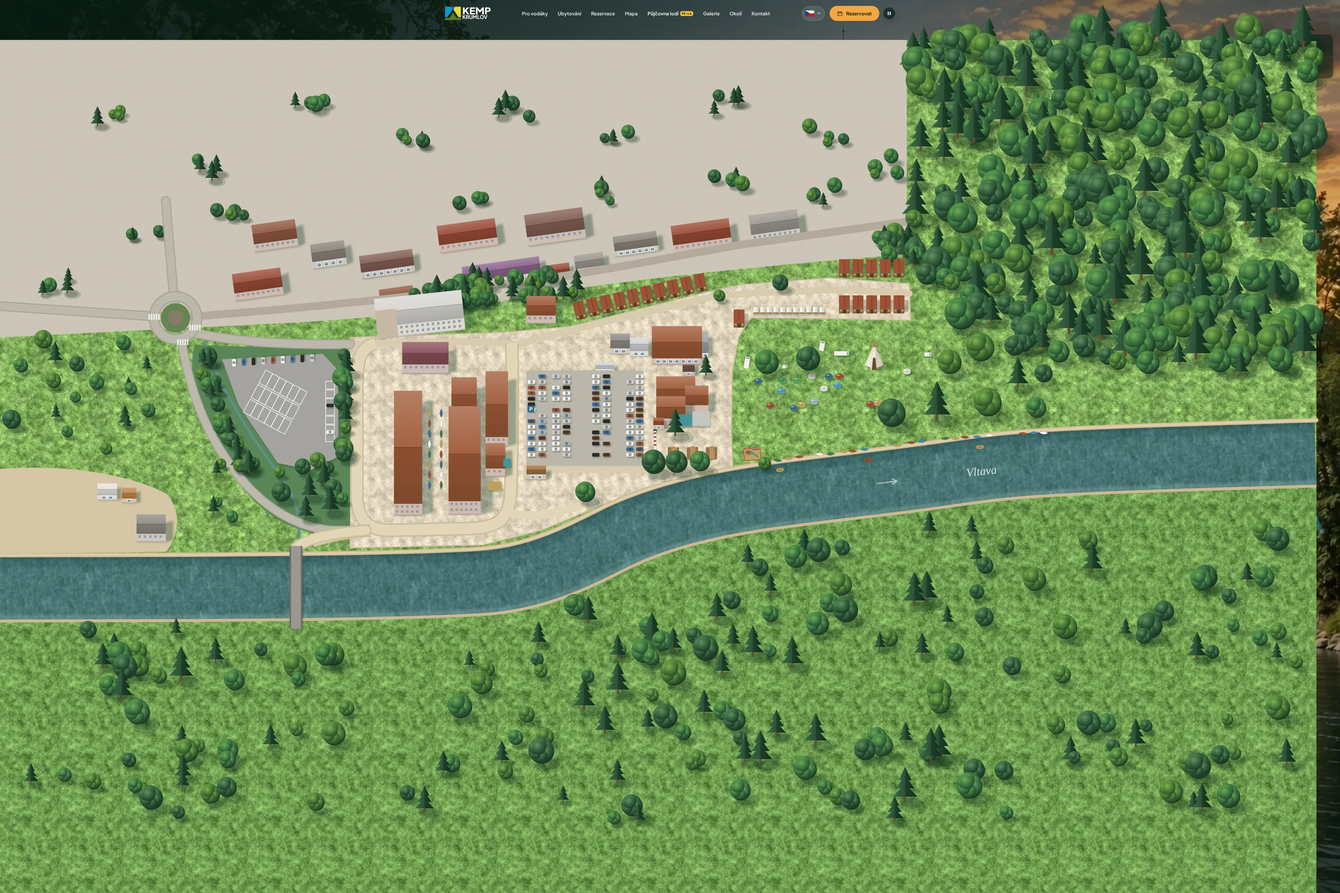
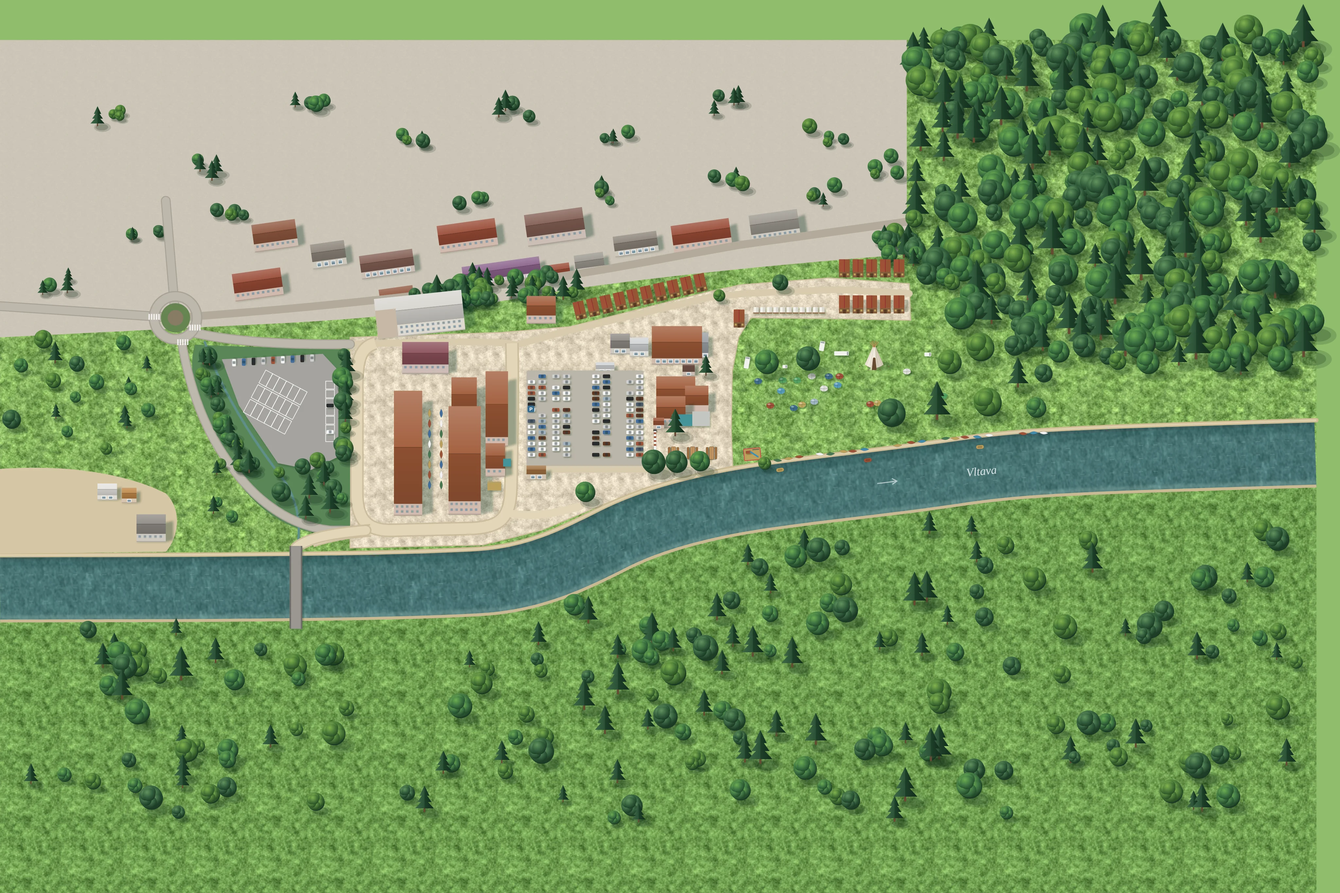
Mapa kempu: zkušební plné 3D (?mapa3d=3) – budovy, chatky, stany, teepee, auta a stromy jako 3D tělesa se stíny
- kamera přepočítaná z CSS náklonu SVG, tělesa sedí pod SVG značkami; pohled, posun, zoom a hranice jako dnes, bez natáčení
- terén jako samostatná textura bez objektů (nastroje/mapa3d-export.py generuje i teren-*)
- na malých displejích bez stínů

Claude-Session: https://claude.ai/code/session_01SriYs8xJVRZFuGyg5TyTst

Changed region(s): [[0.0, 0.0, 1.0, 1.0]]

diff --git a/js/mapy.js b/js/mapy.js
@@ -201,8 +201,9 @@ const RC=(()=>{const hx=c=>{c=String(c).trim();if(c[0]==='#'){if(c.length===4)c=
   else if(h>=75&&h<170){s*=.82;l*=.9}else s*=.85;
   return C[c]=rgb(h,s,l)}})();
 /* podklad přes WebGL (js/mapa3d.js) – výchozí; vypne ?mapa3d=0 (zapne zpět ?mapa3d=1); bez WebGL zůstane čisté SVG */
-const M3=(()=>{try{const q=new URLSearchParams(location.search).get('mapa3d');if(q==='0')localStorage.setItem('kk.mapa.3d','0');if(q==='1')localStorage.removeItem('kk.mapa.3d');
+const M3=(()=>{try{const q=new URLSearchParams(location.search).get('mapa3d');if(q==='0'||q==='3')localStorage.setItem('kk.mapa.3d',q);if(q==='1')localStorage.removeItem('kk.mapa.3d');
   if(localStorage.getItem('kk.mapa.3d')==='0')return false;const c=document.createElement('canvas'),g=c.getContext('webgl2')||c.getContext('webgl');if(!g)return false;const x=g.getExtension('WEBGL_lose_context');if(x)x.loseContext();return true}catch(e){return false}})();
+const M3D=(()=>{try{return localStorage.getItem('kk.mapa.3d')==='3'}catch(e){return false}})();/* plné 3D: budovy, chatky a stromy jako tělesa */
 const E=(t,a={},p=svg,html)=>{const e=document.createElementNS(NS,t);for(const k in a)e.setAttribute(k,REAL&&(k==='fill'||k==='stop-color')?RC(a[k]):a[k]);if(html){e.innerHTML=html;if(REAL)e.querySelectorAll('[fill],[stop-color]').forEach(x=>['fill','stop-color'].forEach(k=>{const v=x.getAttribute(k);if(v)x.setAttribute(k,RC(v))}))}p.append(e);return e};
 const G=(p,a={})=>E('g',a,p);
 let seed=5;const R=()=>{seed=(seed*16807)%2147483647;return(seed-1)/2147483646};
@@ -288,16 +289,16 @@ const S2=G(world,{transform:'scale(2)'});
 const bgp=G(S2,{class:'am-bg'});
 const DLS=[];const dl=(x,y,txt,size=15,rot=0,col='#2c3a30')=>{const t=E('text',{class:'am-dl','data-s':size*2,x,y,'text-anchor':'middle','font-family':FONT,'font-weight':800,'font-size':size*2,fill:col,transform:rot?`rotate(${rot} ${x} ${y})`:'','paint-order':'stroke',stroke:'rgba(255,255,255,.88)','stroke-width':4},world);t.textContent=txt;DLS.push(t);return t};
 const shade=(hex,f)=>{const n=parseInt(hex.slice(1),16);let r=n>>16,g=n>>8&255,b=n&255;r=Math.round(r*f);g=Math.round(g*f);b=Math.round(b*f);return `rgb(${Math.min(255,r)},${Math.min(255,g)},${Math.min(255,b)})`};
-const TREES=[];
-const tree=(p,x,y,r)=>{const g=G(p,{class:'t3'});g.dataset.y=y;TREES.push(g);
+const TREES=[];const O3=[];/* O3: objekty pro 3D režim (budovy, chatky, stany, auta, stromy) */
+const tree=(p,x,y,r)=>{const g=G(p,{class:'t3 o3'});g.dataset.y=y;TREES.push(g);
   E('ellipse',{cx:x+r*.7,cy:y+r*.2,rx:r*1.2,ry:r*.65,fill:'rgba(15,40,22,.16)'},g);E('ellipse',{cx:x+r*.62,cy:y+r*.18,rx:r*.9,ry:r*.45,fill:'rgba(15,40,22,.22)'},g);
-  if(R()<.32){/* jehličnan */const h=r*2.6,c='url(#cnA)';
+  if(R()<.32){/* jehličnan */const h=r*2.6,c='url(#cnA)';O3.push({t:'con',g,x,y,r});
     E('rect',{x:x-r*.09,y:y-r*.5,width:r*.18,height:r*.55,fill:'#6b4a2e'},g);
     for(let k=0;k<3;k++){const yy=y-r*.35-k*h*.26,ww=r*(1-k*.24);
       E('path',{d:`M${x-ww} ${yy} L${x} ${yy-h*.42} L${x+ww} ${yy}Z`,fill:c},g);
       E('path',{d:`M${x} ${yy-h*.42} L${x+ww} ${yy} L${x} ${yy}Z`,fill:'rgba(0,20,10,.28)'},g)}
     return g}
-  const pal=['url(#trA)','url(#trB)','url(#trC)'][Math.floor(R()*3)];
+  const pal=['url(#trA)','url(#trB)','url(#trC)'][Math.floor(R()*3)];O3.push({t:'dec',g,x,y,r,c:pal.slice(6,9)});
   const cy=y-r*.95;
   E('rect',{x:x-r*.1,y:cy,width:r*.2,height:r*.95,fill:'#6b4a2e'},g);
   E('circle',{cx:x+r*.08,cy:cy+r*.12,r:r*.98,fill:'#1d4428'},g);
@@ -305,7 +306,7 @@ const tree=(p,x,y,r)=>{const g=G(p,{class:'t3'});g.dataset.y=y;TREES.push(g);
   for(let i=0;i<6;i++){const a=i/6*Math.PI*2-.6,rr=r*(.42+R()*.14);E('circle',{cx:x+Math.cos(a)*r*.5,cy:cy+Math.sin(a)*r*.44,r:rr,fill:pal},g)}
   E('circle',{cx:x-r*.15,cy:cy-r*.2,r:r*.55,fill:pal},g);return g};
 const roofB=(p,x,y,w,h,col='#c23b4a',rot=0,H,noWin)=>{H=H??Math.max(9,Math.min(34,Math.min(w,h)*.42));
-  const g=G(p,{transform:`rotate(${rot} ${x+w/2} ${y+h/2})`});
+  const g=G(p,{transform:`rotate(${rot} ${x+w/2} ${y+h/2})`,class:'o3'});O3.push({t:'b',g,x,y,w,h,H,col});
   E('path',{d:`M${x} ${y+h} L${x+w} ${y+h} L${x+w+H*.9} ${y+h-H*.25} L${x+w+H*.9} ${y-H*.2} L${x+w} ${y}Z`,fill:'rgba(15,40,22,.32)',filter:'url(#amSoft)'},g);
   const wy=y+h-H;
   E('rect',{x,y:wy,width:w,height:H,fill:'#e9e3d6'},g);E('rect',{x,y:wy,width:w,height:H,fill:shade(col,.9),opacity:.25},g);
@@ -315,16 +316,16 @@ const roofB=(p,x,y,w,h,col='#c23b4a',rot=0,H,noWin)=>{H=H??Math.max(9,Math.min(3
   else for(let f=0;f<nF;f++)for(let i=0;i<nW;i++)E('rect',{x:x+4+i*(w-6)/nW,y:wy+3+f*(H-4)/nF,width:Math.min(5,(w-6)/nW-2),height:Math.min(5,(H-4)/nF-3),fill:'#7d97a6',opacity:.85},g);
   E('rect',{x,y:y-H,width:w,height:h,fill:col},g);E('rect',{x,y:y-H,width:w,height:h,fill:'url(#roofG)'},g);
   E('line',{x1:x,y1:y-H+h/2,x2:x+w,y2:y-H+h/2,stroke:'rgba(0,0,0,.25)','stroke-width':1},g);return g};
-const cabin=(p,x,y,rot=0)=>{const g=G(p,{transform:`translate(${x} ${y}) rotate(${rot})`});
+const cabin=(p,x,y,rot=0)=>{const g=G(p,{transform:`translate(${x} ${y}) rotate(${rot})`,class:'o3'});O3.push({t:'cab',g});
   E('path',{d:'M-11 13 L11 13 L19 11 L19 -13 L11 -13Z',fill:'rgba(20,45,30,.22)'},g);
   E('rect',{x:-11,y:4,width:22,height:11,fill:'#8a5a36'},g);E('rect',{x:-3,y:7,width:6,height:8,fill:'#5a3a22'},g);E('rect',{x:-9,y:7,width:4,height:4,fill:'#f3d58a'},g);E('rect',{x:5,y:7,width:4,height:4,fill:'#f3d58a'},g);
   E('g',{transform:'translate(0 -9)'},g);const gg=g.lastChild;
   E('rect',{x:-11,y:-13,width:22,height:26,rx:1,fill:'#b9343f'},gg);E('rect',{x:-11,y:-13,width:11,height:26,fill:'#d24753'},gg);
   E('line',{x1:0,y1:-13,x2:0,y2:13,stroke:'#8e2630','stroke-width':1},gg)};
-const ptent=(p,x,y)=>{const g=G(p,{transform:`translate(${x} ${y})`,filter:'url(#amSh)'});E('rect',{x:-5,y:-6,width:10,height:12,rx:1,fill:'#f4f2ea'},g);E('rect',{x:0,y:-6,width:5,height:12,fill:'#dcd9cd'},g);E('rect',{x:-6,y:5,width:12,height:2.5,fill:'#9a714a'},g)};
-const dome=(p,x,y,c,s=1)=>{const g=G(p,{transform:`translate(${x} ${y}) scale(${s})`});E('ellipse',{cx:1.5,cy:2,rx:7,ry:5.5,fill:'rgba(23,58,34,.3)'},g);E('ellipse',{rx:6.5,ry:5,fill:c},g);E('path',{d:'M-6.5 0 H6.5 M0 -5 V5',stroke:'rgba(0,0,0,.2)','stroke-width':.8},g);E('ellipse',{cx:-2,cy:-2,rx:2.5,ry:1.6,fill:'rgba(255,255,255,.35)'},g)};
-const car=(p,x,y,c,rot=0)=>{const g=G(p,{transform:`translate(${x} ${y}) rotate(${rot})`});E('rect',{x:-7.5,y:-3.8,width:15,height:7.6,rx:2.2,fill:c,filter:'url(#amSh)'},g);E('rect',{x:-2.5,y:-3,width:5.5,height:6,rx:1,fill:'rgba(30,50,60,.45)'},g)};
-const van=(p,x,y,rot=0,w=16,h=7)=>{const g=G(p,{transform:`translate(${x} ${y}) rotate(${rot})`,filter:'url(#amSh)'});E('rect',{x:-w/2,y:-h/2,width:w,height:h,rx:1.5,fill:'#f3f3ef'},g);E('rect',{x:w/2-4,y:-h/2+1,width:3,height:h-2,fill:'rgba(30,50,60,.4)'},g)};
+const ptent=(p,x,y)=>{const g=G(p,{transform:`translate(${x} ${y})`,filter:'url(#amSh)',class:'o3'});O3.push({t:'pt',g});E('rect',{x:-5,y:-6,width:10,height:12,rx:1,fill:'#f4f2ea'},g);E('rect',{x:0,y:-6,width:5,height:12,fill:'#dcd9cd'},g);E('rect',{x:-6,y:5,width:12,height:2.5,fill:'#9a714a'},g)};
+const dome=(p,x,y,c,s=1)=>{const g=G(p,{transform:`translate(${x} ${y}) scale(${s})`,class:'o3'});O3.push({t:'dm',g,c});E('ellipse',{cx:1.5,cy:2,rx:7,ry:5.5,fill:'rgba(23,58,34,.3)'},g);E('ellipse',{rx:6.5,ry:5,fill:c},g);E('path',{d:'M-6.5 0 H6.5 M0 -5 V5',stroke:'rgba(0,0,0,.2)','stroke-width':.8},g);E('ellipse',{cx:-2,cy:-2,rx:2.5,ry:1.6,fill:'rgba(255,255,255,.35)'},g)};
+const car=(p,x,y,c,rot=0)=>{const g=G(p,{transform:`translate(${x} ${y}) rotate(${rot})`,class:'o3'});O3.push({t:'car',g,c});E('rect',{x:-7.5,y:-3.8,width:15,height:7.6,rx:2.2,fill:c,filter:'url(#amSh)'},g);E('rect',{x:-2.5,y:-3,width:5.5,height:6,rx:1,fill:'rgba(30,50,60,.45)'},g)};
+const van=(p,x,y,rot=0,w=16,h=7)=>{const g=G(p,{transform:`translate(${x} ${y}) rotate(${rot})`,filter:'url(#amSh)',class:'o3'});O3.push({t:'van',g,w,h});E('rect',{x:-w/2,y:-h/2,width:w,height:h,rx:1.5,fill:'#f3f3ef'},g);E('rect',{x:w/2-4,y:-h/2+1,width:3,height:h-2,fill:'rgba(30,50,60,.4)'},g)};
 const boat=(p,x,y,rot,c,len=9)=>{const g=G(p,{transform:`translate(${x} ${y}) rotate(${rot})`});E('path',{d:`M${-len} 0 Q${-len*.4} -3 0 -3 Q${len*.4} -3 ${len} 0 Q${len*.4} 3 0 3 Q${-len*.4} 3 ${-len} 0Z`,fill:c,stroke:'rgba(0,0,0,.25)','stroke-width':.5},g)};
 const raft=(p,x,y,c,rot=0)=>{const g=G(p,{transform:`translate(${x} ${y}) rotate(${rot})`});E('rect',{x:-8,y:-4,width:16,height:8,rx:4,fill:c,stroke:'rgba(0,0,0,.25)','stroke-width':.5},g);E('rect',{x:-5,y:-2,width:10,height:4,rx:2,fill:'rgba(0,0,0,.18)'},g)};
 const cnum=(p,x,y,n,r,fs,bg,fg)=>{const g=G(p,{class:'am-cnum'});E('circle',{cx:x,cy:y,r,fill:bg,stroke:'#fff','stroke-width':1.2,filter:'url(#amSh)'},g);const t=E('text',{x,y,'dominant-baseline':'central','text-anchor':'middle','font-family':FONT,'font-weight':800,'font-size':fs,fill:fg},g);t.textContent=n};
@@ -477,7 +478,7 @@ const DOCKS=[760,905,1010,1160];
  for(let i=0;i<11;i++)ptent(g,651+i*13.5,104);for(let i=0;i<11;i++)cnum(g,651+i*13.5,89,i+1,6,7,'#2a7c86','#fff')}
 // teepee (podle skutečnosti: bílé plátno, dřevěné tyče nahoře, vchod)
 {const g=zone(Z.teepee);hl(g,'circle',{cx:893,cy:208,r:30});
- const cx=893,by=216,rx=19,ry=7,ay=178;
+ const cx=893,by=216,rx=19,ry=7,ay=178;O3.push({t:'tp',g,cx,by,rx,ay});
  // stín na trávě
  E('ellipse',{cx:cx+14,cy:by+3,rx:rx+10,ry:ry+1,fill:'rgba(23,58,34,.32)',filter:'url(#amSoft)'},g);
  // kolíky a lana
@@ -721,7 +722,7 @@ if(REAL){sec.classList.add('collapsed');opn.hidden=false;tog.setAttribute('aria-
    d.setAttribute('cx',X.toFixed(2));d.setAttribute('cy',Y.toFixed(2))})}
  })(performance.now())}
 /* zapečení statického pozadí mapy do jednoho vektorového obrázku – plynulejší animace */
-{const bake=async()=>{try{if(sec.classList.contains('am-3d'))return;const bg=svg.querySelector('.am-bg');if(!bg||bg.dataset.baked)return;const bb=bg.getBBox(),df=svg.querySelector('defs').cloneNode(true);
+{const bake=async()=>{try{if(sec.classList.contains('am-3d')||window.KK_NEBAKE)return;const bg=svg.querySelector('.am-bg');if(!bg||bg.dataset.baked)return;const bb=bg.getBBox(),df=svg.querySelector('defs').cloneNode(true);
  const toData=async u=>{const b=await (await fetch(u)).blob();return await new Promise(r=>{const f=new FileReader();f.onload=()=>r(f.result);f.readAsDataURL(b)})};
  for(const im of df.querySelectorAll('image')){const h=im.getAttribute('href');if(h&&!h.startsWith('data:'))im.setAttribute('href',await toData(h))}
  const X=new XMLSerializer(),str=`<svg xmlns="${NS}" viewBox="${bb.x} ${bb.y} ${bb.width} ${bb.height}" width="${bb.width}" height="${bb.height}">${X.serializeToString(df)}${[...bg.childNodes].map(n=>X.serializeToString(n)).join('')}</svg>`;
@@ -759,12 +760,27 @@ if(REAL){sec.classList.add('am-real');
  try{if(sessionStorage.getItem('kk.mapa.skok')){sessionStorage.removeItem('kk.mapa.skok');setTimeout(()=>sec.scrollIntoView({block:'start'}),60)}}catch(_){}}
 apply(cover());
 window.__am={Z:Z,icon:icon,select:select};
-if(M3){sec.classList.add('am-3d');
+/* objekty pro plné 3D v souřadnicích mapy */
+function obj3d(){const w=world.getCTM(),wi=new DOMMatrix([w.a,w.b,w.c,w.d,w.e,w.f]).inverse();
+ const M=g=>{const c=g.getCTM();return wi.multiply(new DOMMatrix([c.a,c.b,c.c,c.d,c.e,c.f]))},P=(m,x,y)=>{const q=m.transformPoint({x,y});return [+q.x.toFixed(1),+q.y.toFixed(1)]},K=m=>Math.hypot(m.a,m.b);
+ return O3.map(o=>{const m=M(o.g),k=K(m);
+  switch(o.t){
+   case 'b':return{t:'b',p:[P(m,o.x,o.y),P(m,o.x+o.w,o.y),P(m,o.x+o.w,o.y+o.h),P(m,o.x,o.y+o.h)],h:o.H*k,c:o.col};
+   case 'cab':return{t:'cab',p:[P(m,-11,-12),P(m,11,-12),P(m,11,14),P(m,-11,14)],h:10*k};
+   case 'pt':return{t:'pt',p:[P(m,-5,-6),P(m,5,-6),P(m,5,6),P(m,-5,6)],h:7*k};
+   case 'dm':return{t:'dm',p:[P(m,0,0)],r:6.5*k,c:o.c};
+   case 'car':return{t:'car',p:[P(m,-7.5,-3.8),P(m,7.5,-3.8),P(m,7.5,3.8),P(m,-7.5,3.8)],h:4*k,c:o.c};
+   case 'van':return{t:'van',p:[P(m,-o.w/2,-o.h/2),P(m,o.w/2,-o.h/2),P(m,o.w/2,o.h/2),P(m,-o.w/2,o.h/2)],h:7*k};
+   case 'tp':return{t:'tp',p:[P(m,o.cx,o.by-4)],r:o.rx*k*.85,h:(o.by-o.ay)*k*1.2};
+   case 'con':return{t:'con',p:[P(m,o.x,o.y)],r:o.r*k};
+   case 'dec':return{t:'dec',p:[P(m,o.x,o.y)],r:o.r*k,c:o.c};
+  }}).filter(Boolean)}
+if(M3){const OB=M3D?obj3d():null;sec.classList.add('am-3d');
  /* statický obsah (terén, budovy, stromy, čísla míst) se schová – kreslí ho WebGL; zvýraznění zón (.hl) zůstává pro klikání */
  const hv=e=>{e.classList.add('am-hv')},skryj=el=>{[...el.children].forEach(c=>{if(c.classList.contains('hl')||c.classList.contains('am-cnum'))return;if(c.querySelector('.hl,.am-cnum'))skryj(c);else hv(c)})};
  const bg=svg.querySelector('.am-bg');if(bg)hv(bg);svg.querySelectorAll('.am-zone').forEach(skryj);svg.querySelectorAll('[data-y]').forEach(t=>{if(!t.closest('.am-mk,.am-fleet'))hv(t)});
  const base=new URL('.',document.baseURI).href;
- import(base+'js/mapa3d.js?v=8').then(m=>m.start({stage,svg,base,styl:REAL?'real':'kresl'})).then(a=>{window.__am3d=a;a.view(vb);if(cur)a.focus(cur.k)})
+ import(base+'js/mapa3d.js?v=11').then(m=>m.start({stage,svg,base,styl:REAL?'real':'kresl',obj:OB,rc:REAL?RC:null})).then(a=>{window.__am3d=a;a.view(vb);if(cur)a.focus(cur.k)})
   .catch(e=>{console.warn('Mapa: WebGL podklad nejde, zůstává SVG',e);window.__am3d=null;sec.classList.remove('am-3d');if(window.__amBake)window.__amBake()})}
 let rt;addEventListener('resize',()=>{clearTimeout(rt);rt=setTimeout(()=>{legH();if(cur)select(cur);else apply(cover())},120)});
 })();

diff --git a/js/mapa3d.js b/js/mapa3d.js
@@ -1,36 +1,96 @@
-/* Podklad mapy kempu kreslený přes WebGL (three.js).
+/* Mapa kempu kreslená přes WebGL (three.js).
    Pohled, posun, přiblížení, náklon i hranice dál řídí SVG mapa v mapy.js (stejný viewBox a stejná CSS transformace),
-   takže mapa vypadá a chová se úplně stejně. Jen těžký statický obsah (terén, budovy, stromy) místo tisíců
-   SVG prvků se stíny vykresluje grafická karta z jedné textury. Špendlíky, zvýraznění zón a lodě zůstávají v SVG.
+   takže mapa vypadá a chová se stejně. Špendlíky, čísla míst, zvýraznění zón a lodě zůstávají v SVG.
+   Dva režimy:
+   – podklad: celá mapa jako jedna textura, plátno má stejnou CSS transformaci jako SVG,
+   – plné 3D (obj): terén jako textura + budovy, chatky, stany, auta a stromy jako 3D tělesa;
+     kamera se počítá přímo z CSS náklonu SVG (perspektiva + rotateX), takže tělesa sedí přesně pod SVG značkami.
    Textury img/mapa3d-*.webp a js/mapa3d-data.json vyrábí nastroje/mapa3d-export.py. */
 import * as THREE from './vendor/three.module.min.js';
 
-export async function start({stage,svg,base,styl}){
- const D=await (await fetch(base+'js/mapa3d-data.json')).json(),T=D.tex;
- const R=new THREE.WebGLRenderer({antialias:false,alpha:true,powerPreference:'low-power'});
+export async function start({stage,svg,base,styl,obj,rc}){
+ const D=await (await fetch(base+'js/mapa3d-data.json',{cache:'no-cache'})).json(),T=D.tex,VER=D.v||'';
+ const P3=!!(obj&&obj.length);
+ const R=new THREE.WebGLRenderer({antialias:P3,alpha:true,powerPreference:'low-power'});
  R.setPixelRatio(Math.min(devicePixelRatio,2));R.outputColorSpace=THREE.SRGBColorSpace;R.setClearColor(0x000000,0);
- const cv=R.domElement;cv.className='am-gl';cv.setAttribute('aria-hidden','true');svg.before(cv);
- const S=new THREE.Scene(),C=new THREE.OrthographicCamera(0,1,0,-1,-10,10);
+ const cv=R.domElement;cv.className='am-gl'+(P3?' am-gl3':'');cv.setAttribute('aria-hidden','true');svg.before(cv);
+ const S=new THREE.Scene();
  const mala=Math.min(innerWidth,innerHeight)<700||!(R.capabilities.maxTextureSize>=4096);
- const nacti=s=>new Promise((ok,no)=>new THREE.TextureLoader().load(`${base}img/mapa3d-${s}${mala?'-2048':''}.webp`,t=>{
+ const jm=s=>(P3?'teren-':'')+s;
+ const nacti=s=>new Promise((ok,no)=>new THREE.TextureLoader().load(`${base}img/mapa3d-${jm(s)}${mala?'-2048':''}.webp?v=${VER}`,t=>{
   t.colorSpace=THREE.SRGBColorSpace;t.anisotropy=Math.min(8,R.capabilities.getMaxAnisotropy());t.generateMipmaps=true;t.minFilter=THREE.LinearMipmapLinearFilter;ok(t)},undefined,no));
- /* rovina v souřadnicích mapy (osa y obrácená, jako v SVG) */
- /* vybrané místo zůstane barevné, zbytek se ztlumí – jako .focus u SVG zón */
+ /* terén; vybrané místo zůstane barevné, zbytek se ztlumí – jako .focus u SVG zón */
  const U={map:{value:await nacti(styl)},dim:{value:0},rc:{value:new THREE.Vector4(0,0,0,0)}};
- const mat=new THREE.ShaderMaterial({uniforms:U,
-  vertexShader:'varying vec2 vUv;varying vec2 vW;void main(){vUv=uv;vec4 w=modelMatrix*vec4(position,1.);vW=vec2(w.x,-w.y);gl_Position=projectionMatrix*viewMatrix*w;}',
+ const mat=new THREE.ShaderMaterial({uniforms:U,side:THREE.DoubleSide,
+  vertexShader:'varying vec2 vUv;varying vec2 vW;void main(){vUv=uv;vec4 w=modelMatrix*vec4(position,1.);vW=vec2(w.x,'+(P3?'w.y':'-w.y')+');gl_Position=projectionMatrix*viewMatrix*w;}',
   fragmentShader:'uniform sampler2D map;uniform float dim;uniform vec4 rc;varying vec2 vUv;varying vec2 vW;void main(){vec4 c=texture2D(map,vUv);'+
    'float l=dot(c.rgb,vec3(.299,.587,.114));vec3 d=mix(vec3(l),c.rgb,.45);d=mix(d,vec3(.85,.83,.78),.18);'+
    'float m=step(rc.x,vW.x)*step(vW.x,rc.z)*step(rc.y,vW.y)*step(vW.y,rc.w);gl_FragColor=vec4(mix(c.rgb,d,dim*(1.-m)),1.);'+
    '\n#include <colorspace_fragment>\n}'});
- const zem=new THREE.Mesh(new THREE.PlaneGeometry(T.w,T.h),mat);
- zem.position.set(T.x+T.w/2,-(T.y+T.h/2),0);S.add(zem);
+ const zem=new THREE.Mesh(new THREE.PlaneGeometry(T.w,T.h),mat);S.add(zem);
+ let C;
+ if(!P3){zem.position.set(T.x+T.w/2,-(T.y+T.h/2),0);C=new THREE.OrthographicCamera(0,1,0,-1,-10,10)}
+ else{
+  /* souřadnice scény = souřadnice mapy: x doprava, y dolů, z = výška nad terénem */
+  zem.position.set(T.x+T.w/2,T.y+T.h/2,0);zem.scale.y=-1;
+  C=new THREE.Camera();C.matrixAutoUpdate=false;
+  const HK=1.3;/* výšky jako v kreslené mapě (tam jsou „vytažené“ šikmo do plochy) */
+  const cl=c=>{c=rc&&c?rc(c):c;return new THREE.Color(c||'#cccccc')};
+  const pos=[],nor=[],col=[],tri=(a,b,c,k)=>{const n=new THREE.Vector3().subVectors(b,a).cross(new THREE.Vector3().subVectors(c,a)).normalize();
+   if(n.z<0||(Math.abs(n.z)<1e-6&&n.lengthSq()===0))n.negate();for(const v of [a,b,c]){pos.push(v.x,v.y,v.z);nor.push(n.x,n.y,n.z);col.push(k.r,k.g,k.b)}};
+  const V=(p,z)=>new THREE.Vector3(p[0],p[1],z),quad=(a,b,c,d,k)=>{tri(a,b,c,k);tri(a,c,d,k)};
+  const stred=q=>[(q[0][0]+q[1][0]+q[2][0]+q[3][0])/4,(q[0][1]+q[1][1]+q[2][1]+q[3][1])/4];
+  /* normála stěny ven od středu (scéna je zrcadlená, proto ruční orientace) */
+  const stena=(a,b,z0,z1,k,c)=>{const A=V(a,z0),B=V(b,z0),B1=V(b,z1),A1=V(a,z1);const n=new THREE.Vector3().subVectors(B,A).cross(new THREE.Vector3(0,0,1)).normalize();
+   const ven=new THREE.Vector3((a[0]+b[0])/2-c[0],(a[1]+b[1])/2-c[1],0);if(n.dot(ven)<0)n.negate();
+   for(const v of [A,B,B1,A,B1,A1]){pos.push(v.x,v.y,v.z);nor.push(n.x,n.y,n.z);col.push(k.r,k.g,k.b)}};
+  const kvadr=(q,z0,z1,kS,kT)=>{const c=stred(q);for(let i=0;i<4;i++)stena(q[i],q[(i+1)%4],z0,z1,kS,c);if(kT)quad(V(q[0],z1),V(q[1],z1),V(q[2],z1),V(q[3],z1),kT)};
+  /* sedlová střecha: hřeben podél hrany q0→q1 (nebo q1→q2) */
+  const sedlo=(q,z,rh,k,podel)=>{const [a,b,c,d]=podel?[q[1],q[2],q[3],q[0]]:q;const m1=[(a[0]+d[0])/2,(a[1]+d[1])/2],m2=[(b[0]+c[0])/2,(b[1]+c[1])/2];
+   const A=V(a,z),B=V(b,z),Cc=V(c,z),Dd=V(d,z),M1=V(m1,z+rh),M2=V(m2,z+rh);quad(A,B,M2,M1,k);quad(Dd,Cc,M2,M1,k);tri(A,Dd,M1,k);tri(B,Cc,M2,k)};
+  const geo=(g,x,y,z,k)=>{g=g.toNonIndexed();g.computeVertexNormals();const p=g.attributes.position,n=g.attributes.normal;
+   for(let i=0;i<p.count;i++){pos.push(p.getX(i)+x,p.getY(i)+y,p.getZ(i)+z);nor.push(n.getX(i),n.getY(i),n.getZ(i));col.push(k.r,k.g,k.b)}};
+  const SH=new THREE.SphereGeometry(1,14,7,0,Math.PI*2,0,Math.PI/2).rotateX(Math.PI/2),
+   KR=new THREE.IcosahedronGeometry(1,2),KM=new THREE.CylinderGeometry(.1,.14,1,6).rotateX(Math.PI/2),KU=r=>new THREE.ConeGeometry(1,1,10).rotateX(Math.PI/2);
+  const TREEC={trA:'#4a9a50',trB:'#5aa64f',trC:'#3a8a48'};
+  const zed=cl('#ece6d8'),kmen=cl('#6b4a2e');
+  for(const o of obj){const q=o.p;
+   switch(o.t){
+    case 'b':{const h=o.h*HK,e1=Math.hypot(q[1][0]-q[0][0],q[1][1]-q[0][1]),e2=Math.hypot(q[2][0]-q[1][0],q[2][1]-q[1][1]);
+     kvadr(q,0,h,zed,null);sedlo(q,h,Math.min(e1,e2)*.28,cl(o.c),e2>e1);break}
+    case 'cab':kvadr(q,0,o.h*HK*.75,cl('#8a5a36'),null);sedlo(q,o.h*HK*.75,o.h*HK*.6,cl('#c23b4a'),true);break;
+    case 'pt':kvadr(q,0,1.5,cl('#9a714a'),null);sedlo(q,1.5,o.h*HK,cl('#f1eee4'),true);break;
+    case 'car':kvadr(q,0,o.h*.55,cl(o.c),null);kvadr(q.map(p=>[p[0]*.8+stred(q)[0]*.2,p[1]*.8+stred(q)[1]*.2]),o.h*.55,o.h,cl(o.c).multiplyScalar(.82),cl(o.c).multiplyScalar(.9));break;
+    case 'van':kvadr(q,0,o.h,cl('#f3f3ef'),cl('#e6e6df'));break;
+    case 'dm':{const g=SH.clone().scale(o.r,o.r*.8,o.r*.75);geo(g,q[0][0],q[0][1],0,cl(o.c));break}
+    case 'tp':{const g=KU().scale(o.r,o.r,o.h).translate(0,0,o.h/2);geo(g,q[0][0],q[0][1],0,cl('#f3ecdb'));break}
+    case 'dec':{const r=o.r;geo(KM.clone().scale(r,r,r*.7),q[0][0],q[0][1],r*.35,kmen);geo(KR.clone().scale(r,r,r*.95),q[0][0],q[0][1],r*1.35,cl(TREEC[o.c]||'#3f8f49'));break}
+    case 'con':{const r=o.r,h=r*2.6*HK*.8;geo(KM.clone().scale(r,r,r*.5),q[0][0],q[0][1],r*.25,kmen);
+     for(let i=0;i<3;i++){const w=r*(1-i*.24),z=r*.35+i*h*.26;geo(KU().scale(w,w,h*.42).translate(0,0,h*.21),q[0][0],q[0][1],z,cl('#2c6b3f'))}break}
+   }}
+  const G=new THREE.BufferGeometry();G.setAttribute('position',new THREE.Float32BufferAttribute(pos,3));G.setAttribute('normal',new THREE.Float32BufferAttribute(nor,3));G.setAttribute('color',new THREE.Float32BufferAttribute(col,3));
+  const telesa=new THREE.Mesh(G,new THREE.MeshLambertMaterial({vertexColors:true,side:THREE.DoubleSide}));telesa.castShadow=true;S.add(telesa);
+  S.add(new THREE.HemisphereLight(0xffffff,0x9aa58a,1.6));
+  const L=new THREE.DirectionalLight(0xfff4e0,1.7),cx=T.x+T.w/2,cy=T.y+T.h/2;L.position.set(cx-1600,cy-1400,2600);L.target.position.set(cx,cy,0);S.add(L,L.target);
+  if(!mala){R.shadowMap.enabled=true;R.shadowMap.type=THREE.PCFSoftShadowMap;L.castShadow=true;L.shadow.mapSize.set(4096,4096);
+   const sc=L.shadow.camera;sc.left=-T.w*.6;sc.right=T.w*.6;sc.top=T.h*.7;sc.bottom=-T.h*.7;sc.near=10;sc.far=8000;L.shadow.bias=-.0006;
+   const st=new THREE.Mesh(new THREE.PlaneGeometry(T.w,T.h),new THREE.ShadowMaterial({opacity:.28,side:THREE.DoubleSide}));st.position.set(cx,cy,.5);st.receiveShadow=true;S.add(st)}
+ }
+ /* kamera z CSS: stejná transformace jako #amSvg (rotateX, scale, posun) a perspektiva jeviště */
+ const ZR=6000;
+ const kamera3=(W,H)=>{const s=W/vb.w,cs=getComputedStyle(svg),M=cs.transform&&cs.transform!=='none'?new DOMMatrix(cs.transform):new DOMMatrix();
+  const [ox,oy]=cs.transformOrigin.split(' ').map(parseFloat),st=getComputedStyle(stage),d=parseFloat(st.perspective)||1e7,[px,py]=st.perspectiveOrigin.split(' ').map(parseFloat);
+  const Mf=new DOMMatrix().translate(ox,oy).multiply(M).translate(-ox,-oy).multiply(new DOMMatrix([s,0,0,0, 0,s,0,0, 0,0,s,0, -vb.x*s,-vb.y*s,0,1]));
+  const Cm=new THREE.Matrix4().set(2/W,0,-2*px/(W*d)+1/d,-1, 0,-2/H,2*py/(H*d)-1/d,1, 0,0,-1/ZR,0, 0,0,-1/d,1);
+  C.projectionMatrix.copy(Cm.multiply(new THREE.Matrix4().fromArray(Mf.toFloat64Array())));C.projectionMatrixInverse.copy(C.projectionMatrix).invert()};
  let vb=null,ceka=false;
- const kresli=()=>{ceka=false;if(!vb)return;const r=stage.getBoundingClientRect();if(!r.width||!r.height)return;
-  if(cv.width!==Math.round(r.width*R.getPixelRatio())||cv.height!==Math.round(r.height*R.getPixelRatio()))R.setSize(r.width,r.height,false);
-  C.left=vb.x;C.right=vb.x+vb.w;C.top=-vb.y;C.bottom=-(vb.y+vb.h);C.updateProjectionMatrix();R.render(S,C)};
+ const kresli=()=>{ceka=false;if(!vb)return;const W=stage.clientWidth,H=stage.clientHeight;if(!W||!H)return;
+  if(cv.width!==Math.round(W*R.getPixelRatio())||cv.height!==Math.round(H*R.getPixelRatio()))R.setSize(W,H,false);
+  if(P3)kamera3(W,H);else{C.left=vb.x;C.right=vb.x+vb.w;C.top=-vb.y;C.bottom=-(vb.y+vb.h);C.updateProjectionMatrix()}
+  R.render(S,C)};
  const naplanuj=()=>{if(!ceka){ceka=true;requestAnimationFrame(kresli)}};
  new ResizeObserver(naplanuj).observe(stage);
+ svg.addEventListener('transitionend',naplanuj);
  return {
   view(b){vb={x:b.x,y:b.y,w:b.w,h:b.h};naplanuj()},
   async styl(s){const t=await nacti(s),o=U.map.value;U.map.value=t;if(o)o.dispose();naplanuj()},

diff --git a/index.html b/index.html
@@ -257,7 +257,7 @@
   0% { background-position: 120% 0px; }
   100% { background-position: -120% 0px; }
 }</style>
-<link rel="stylesheet" href="css/web.css?v=ac4685c0gknst">
+<link rel="stylesheet" href="css/web.css?v=ac4685c0gknstA">
 </head>
 <body>
 
@@ -960,6 +960,6 @@
 <script src="js/web.js?v=p2web"></script>
 <script src="js/cenik.js?v=p1c5e713def"></script>
 <script src="js/pobyt.js?v=0d1e7b6bdghj"></script>
-<script src="js/mapy.js?v=6568789fknopqruvwyz"></script>
+<script src="js/mapy.js?v=6568789fknopqruvwyzA"></script>
 <script src="js/animace.js?v=5697ac57"></script>
 </body></html>

diff --git a/css/web.css b/css/web.css
@@ -3688,3 +3688,5 @@ html{scroll-snap-type:y proximity}
 #areal{scroll-snap-align:start;scroll-snap-stop:always}
 /* mapa přesně přes celé okno i po kliknutí na „Mapa“ (vyruší odsazení pod hlavičkou) */
 #areal{scroll-margin-top:-96px}
+/* plné 3D: plátno se nenaklání přes CSS – náklon dělá kamera */
+#areal .am-gl.am-gl3{transform:none!important;transition:none}

diff --git a/nastroje/mapa3d-export.py b/nastroje/mapa3d-export.py
@@ -1,48 +1,50 @@
 """Vygeneruje podklady pro mapu kempu ve WebGL (js/mapa3d.js) ze SVG mapy (js/mapy.js):
-   img/mapa3d-kresl(.webp|-2048.webp), img/mapa3d-real(...), js/mapa3d-data.json.
-   Spustit po každé změně SVG mapy (nová chatka, přesun budovy…):  python3 nastroje/mapa3d-export.py
-   Potřebuje: pip install playwright pillow numpy ; Google Chrome v /usr/bin/google-chrome."""
-import json,os,sys
+   img/mapa3d-{kresl,real,teren-kresl,teren-real}(.webp|-2048.webp) a js/mapa3d-data.json.
+   „teren“ = jen terén bez budov, chatek, stanů, aut a stromů (ty kreslí plné 3D).
+   Spustit po každé změně SVG mapy:  python3 nastroje/mapa3d-export.py
+   Potřebuje: pip install playwright pillow ; Google Chrome v /usr/bin/google-chrome."""
+import json,os,time,base64
 from playwright.sync_api import sync_playwright
 from PIL import Image
-import numpy as np
 ROOT=os.path.dirname(os.path.dirname(os.path.abspath(__file__)))
 U='file://'+ROOT+'/index.html'
-W,H=4096,2730
-def stranka(p,styl,vp):
+VB=(-1800,-1064,5497,3664);W,H=4096,2730
+SER="""async(teren)=>{const svg=document.getElementById('amSvg');const c=svg.cloneNode(true);
+ c.querySelectorAll('.am-mk,.am-fleet,.am-cnum,.am-dl,.am-styl').forEach(e=>e.remove());
+ const S2=c.querySelector(':scope>g>g');[...S2.children].forEach(e=>{if(e.getAttribute('pointer-events')==='none')e.remove()});
+ c.querySelectorAll('.hl').forEach(e=>e.remove());
+ if(teren){c.querySelectorAll('.o3').forEach(e=>e.remove());c.querySelectorAll('.am-zone[data-k=teepee] > *').forEach(e=>e.remove())}
+ for(const im of c.querySelectorAll('image')){const h=im.getAttribute('href');if(h&&!h.startsWith('data:')){const b=await (await fetch(h)).blob();im.setAttribute('href',await new Promise(r=>{const f=new FileReader();f.onload=()=>r(f.result);f.readAsDataURL(b)}))}}
+ c.setAttribute('viewBox','%s');c.setAttribute('preserveAspectRatio','none');c.setAttribute('width','%d');c.setAttribute('height','%d');c.removeAttribute('style');c.removeAttribute('class');
+ return new XMLSerializer().serializeToString(c)}"""%(' '.join(map(str,VB)),W,H)
+def nacti(p,styl):
   b=p.chromium.launch(executable_path='/usr/bin/google-chrome',args=['--allow-file-access-from-files'])
-  o=b.new_page(viewport=vp)
-  o.add_init_script("localStorage.setItem('kk.mapa.styl','%s');localStorage.setItem('kk.mapa.3d','0')"%styl)
-  o.goto(U);o.wait_for_timeout(1500);o.locator('#areal').scroll_into_view_if_needed();o.wait_for_timeout(12000)
+  o=b.new_page(viewport={'width':1440,'height':900})
+  o.add_init_script("window.KK_NEBAKE=1;localStorage.setItem('kk.mapa.styl','%s');localStorage.setItem('kk.mapa.3d','0')"%styl)
+  o.goto(U);o.wait_for_timeout(1500);o.locator('#areal').scroll_into_view_if_needed();o.wait_for_timeout(9000)
   return b,o
 with sync_playwright() as p:
-  b,o=stranka(p,'kresl',{'width':1440,'height':900})
-  d=o.evaluate("""(()=>{const Z=window.__am.Z,svg=document.getElementById('amSvg');
-   const items=Object.values(Z).map(o=>{let r=null;if(o.g){const b=o.g.getBBox();r=[b.x*2,b.y*2,b.width*2,b.height*2]}return{k:o.k,n:o.n,c:o.c,m:[o.mx,o.my],r,d:o.d,li:o.li}});
-   const paths=[...svg.querySelectorAll('.am-fleet path')].filter(p=>p.getAttribute('d')).map(p=>{const L=p.getTotalLength(),pts=[];for(let i=0;i<=60;i++){const q=p.getPointAtLength(L*i/60);pts.push([+(q.x*2).toFixed(1),+(q.y*2).toFixed(1)])}return pts});
-   return {items,paths}})()""")
-  b.close()
-  d['paths']=[q for q in d['paths'] if abs(q[-1][0]-q[0][0])>300]
-  vyska=None
-  for st in ['kresl','real']:
-    b,o=stranka(p,st,{'width':W,'height':H})
-    o.evaluate("""(()=>{const svg=document.getElementById('amSvg');const S2=svg.querySelector(':scope>g>g');
-     svg.querySelectorAll('.am-mk,.am-fleet,.am-cnum,.am-dl').forEach(e=>e.style.display='none');
-     [...S2.children].forEach(e=>{if(e.getAttribute('pointer-events')==='none')e.style.display='none'});
-     document.querySelectorAll('.am-styl,.am-panel,.am-ctrl,.am-hint,#amIntro,.am-open,.am-card,.am-tip').forEach(e=>e.style.display='none');
-     svg.setAttribute('viewBox','-1800 -1064 5497 3664');svg.setAttribute('preserveAspectRatio','none');
-     Object.assign(svg.style,{position:'fixed',left:'0',top:'0',width:'%dpx',height:'%dpx',zIndex:99999});svg.style.setProperty('transform','none','important');svg.style.setProperty('transition','none','important');document.body.append(svg)})()"""%(W,H))
-    o.evaluate("scrollTo(0,0)");o.wait_for_timeout(1500)
-    vb0=o.evaluate("[document.getElementById('amSvg').getAttribute('viewBox'),document.getElementById('amSvg').getAttribute('preserveAspectRatio'),JSON.stringify(document.getElementById('amSvg').getBoundingClientRect())]")
-    tmp='/tmp/mapa3d-%s.png'%st;o.screenshot(path=tmp,clip={'x':0,'y':0,'width':W,'height':H})
-    vb1=o.evaluate("document.getElementById('amSvg').getAttribute('viewBox')");print(st,vb0,vb1);b.close()
-    im=Image.open(tmp).convert('RGB')
-    if vyska is None:
-      a=np.asarray(im).astype(int);s=a[:,::64,:].sum(axis=2).mean(axis=1);tm=np.where(s<160)[0];tm=tm[tm>H*0.8]
-      vyska=int(tm[0]) if len(tm) else H
-    im=im.crop((0,0,W,vyska))
-    im.save(ROOT+'/img/mapa3d-%s.webp'%st,quality=84,method=6)
-    im.resize((2048,round(vyska/2)),Image.LANCZOS).save(ROOT+'/img/mapa3d-%s-2048.webp'%st,quality=84,method=6)
-  d['tex']={'x':-1800,'y':-1064,'w':5497,'h':round(3664*vyska/H,1)}
-  json.dump(d,open(ROOT+'/js/mapa3d-data.json','w'),ensure_ascii=False)
-  print('hotovo',d['tex'],len(d['items']),'míst',len(d['paths']),'tras lodí')
+  data=None
+  for styl in ['kresl','real']:
+    b,o=nacti(p,styl)
+    if data is None:
+      data=o.evaluate("""(()=>{const Z=window.__am.Z,svg=document.getElementById('amSvg');
+       const items=Object.values(Z).map(o=>{let r=null;if(o.g){const b=o.g.getBBox();r=[b.x*2,b.y*2,b.width*2,b.height*2]}return{k:o.k,n:o.n,c:o.c,m:[o.mx,o.my],r,d:o.d,li:o.li}});
+       const paths=[...svg.querySelectorAll('.am-fleet path')].filter(p=>p.getAttribute('d')).map(p=>{const L=p.getTotalLength(),pts=[];for(let i=0;i<=60;i++){const q=p.getPointAtLength(L*i/60);pts.push([+(q.x*2).toFixed(1),+(q.y*2).toFixed(1)])}return pts});
+       return {items,paths}})()""")
+    for teren in [0,1]:
+      svgs=o.evaluate(SER,teren)
+      nm=('teren-' if teren else '')+styl
+      f='/tmp/mapa3d-%s.html'%nm;open(f,'w').write('<!doctype html><html><body style="margin:0;background:#8fbd6c">'+svgs+'</body></html>')
+      q=b.new_page(viewport={'width':W,'height':H});q.goto('file://'+f);q.wait_for_timeout(2500)
+      tmp='/tmp/mapa3d-%s.png'%nm;q.screenshot(path=tmp,clip={'x':0,'y':0,'width':W,'height':H});q.close()
+      im=Image.open(tmp).convert('RGB')
+      im.save(ROOT+'/img/mapa3d-%s.webp'%nm,quality=84,method=6)
+      im.resize((2048,1365),Image.LANCZOS).save(ROOT+'/img/mapa3d-%s-2048.webp'%nm,quality=84,method=6)
+      print('ok',nm)
+    b.close()
+  data['paths']=[q for q in data['paths'] if abs(q[-1][0]-q[0][0])>300]
+  data['v']=time.strftime('%Y%m%d%H%M')
+  data['tex']={'x':VB[0],'y':VB[1],'w':VB[2],'h':VB[3]}
+  json.dump(data,open(ROOT+'/js/mapa3d-data.json','w'),ensure_ascii=False)
+  print('hotovo',data['tex'],len(data['items']),'míst',len(data['paths']),'tras lodí')

diff --git a/admin/NAPOJENI-NA-SERVER.md b/admin/NAPOJENI-NA-SERVER.md
@@ -292,3 +292,5 @@ Zobrazuje se v detailu rezervace, na kartách Ubytování (administrace i aplika
 `js/mapa3d.js` umí kreslit statický podklad mapy (terén, budovy, stromy) přes WebGL z jedné textury; pohled, posun, přiblížení, špendlíky a lodě dál řídí SVG v `js/mapy.js`, takže mapa vypadá a chová se stejně.
 Výchozí je zapnuto. Vypnutí jen pro vlastní prohlížeč: `https://www.kemp-krumlov.cz/?mapa3d=0#areal`, zapnutí zpět `?mapa3d=1`. Čísla chatek a stanů se kreslí v SVG (ostrá při přiblížení), v textuře nejsou.
 Po změně SVG mapy znovu vygenerovat textury: `python3 nastroje/mapa3d-export.py`.
+
+Plné 3D (budovy, chatky, stany, auta a stromy jako 3D tělesa se stíny, pohled bez natáčení, stejný jako SVG): zkušebně `?mapa3d=3`. Potřebuje textury `img/mapa3d-teren-*.webp` (jen terén), vyrábí je stejný skript.
